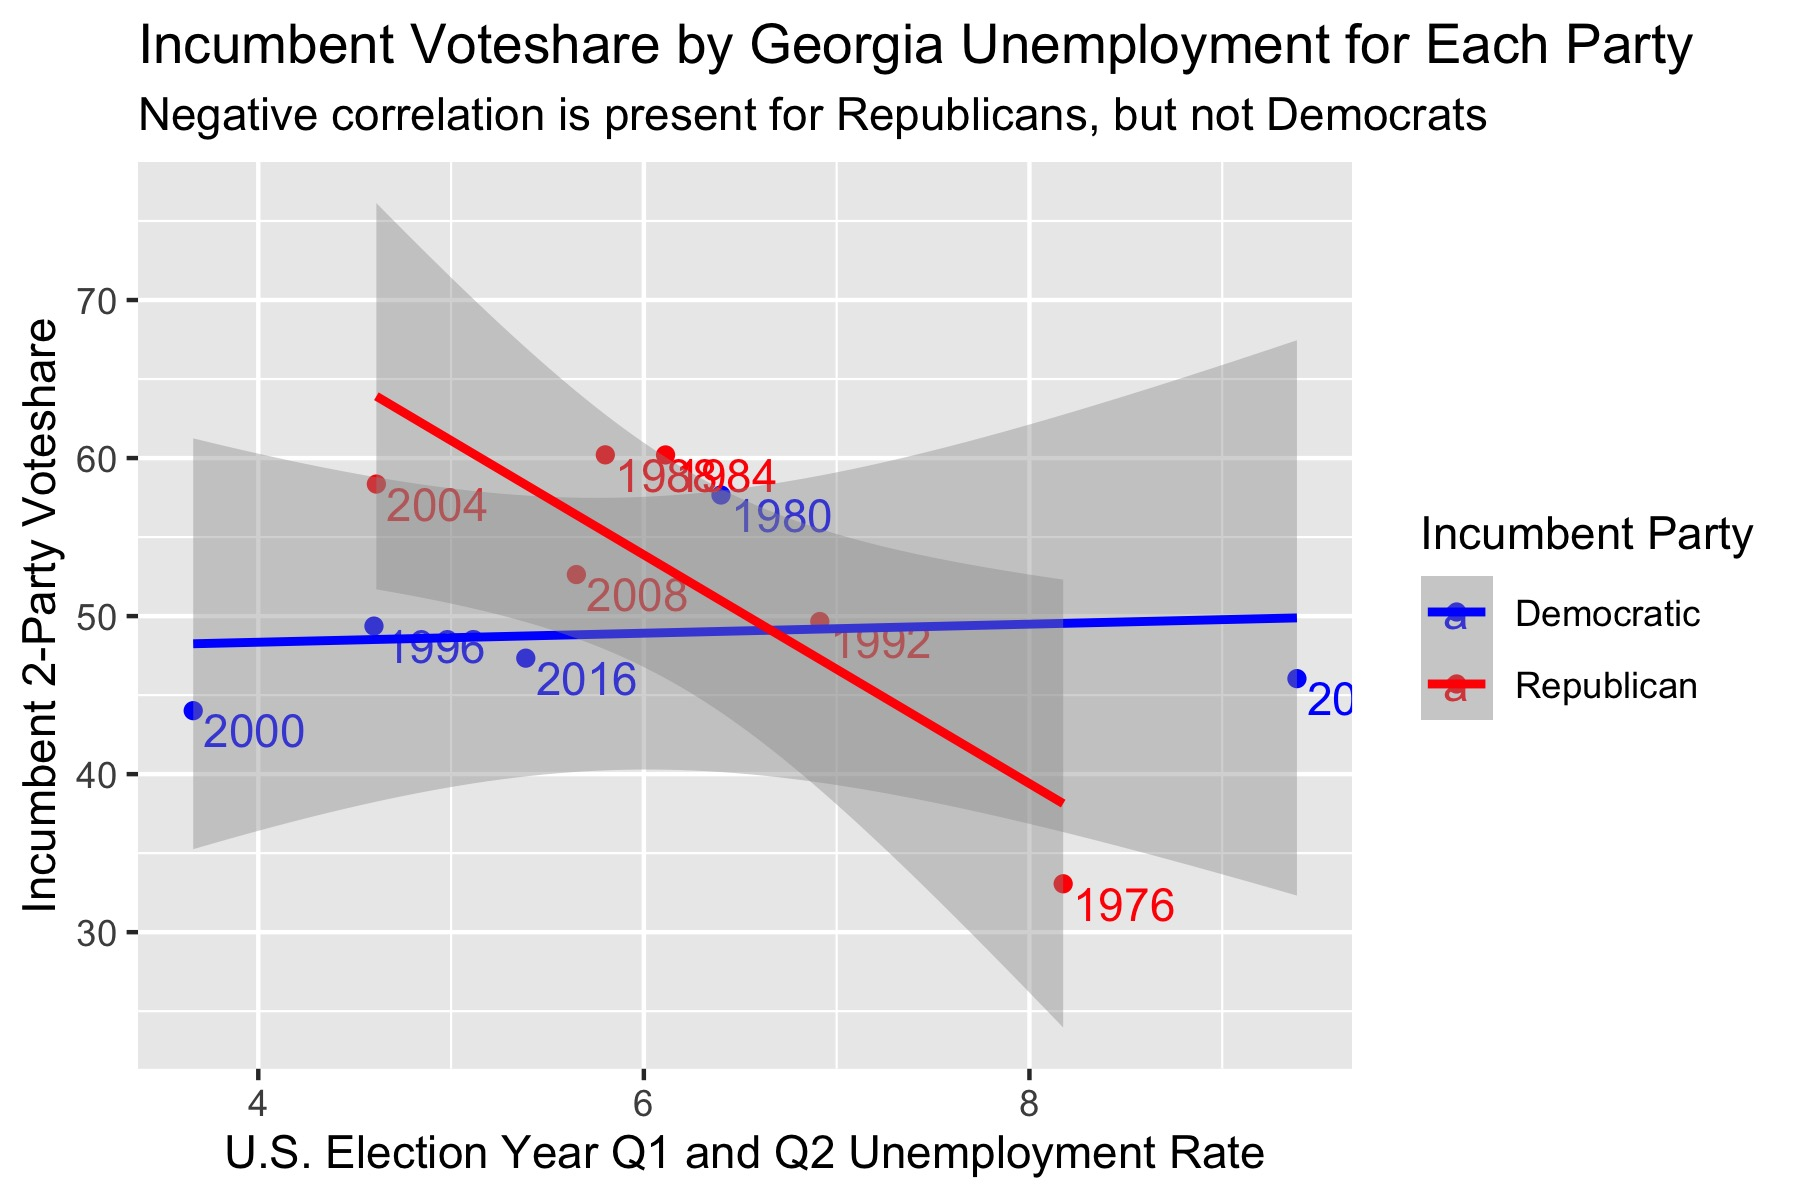
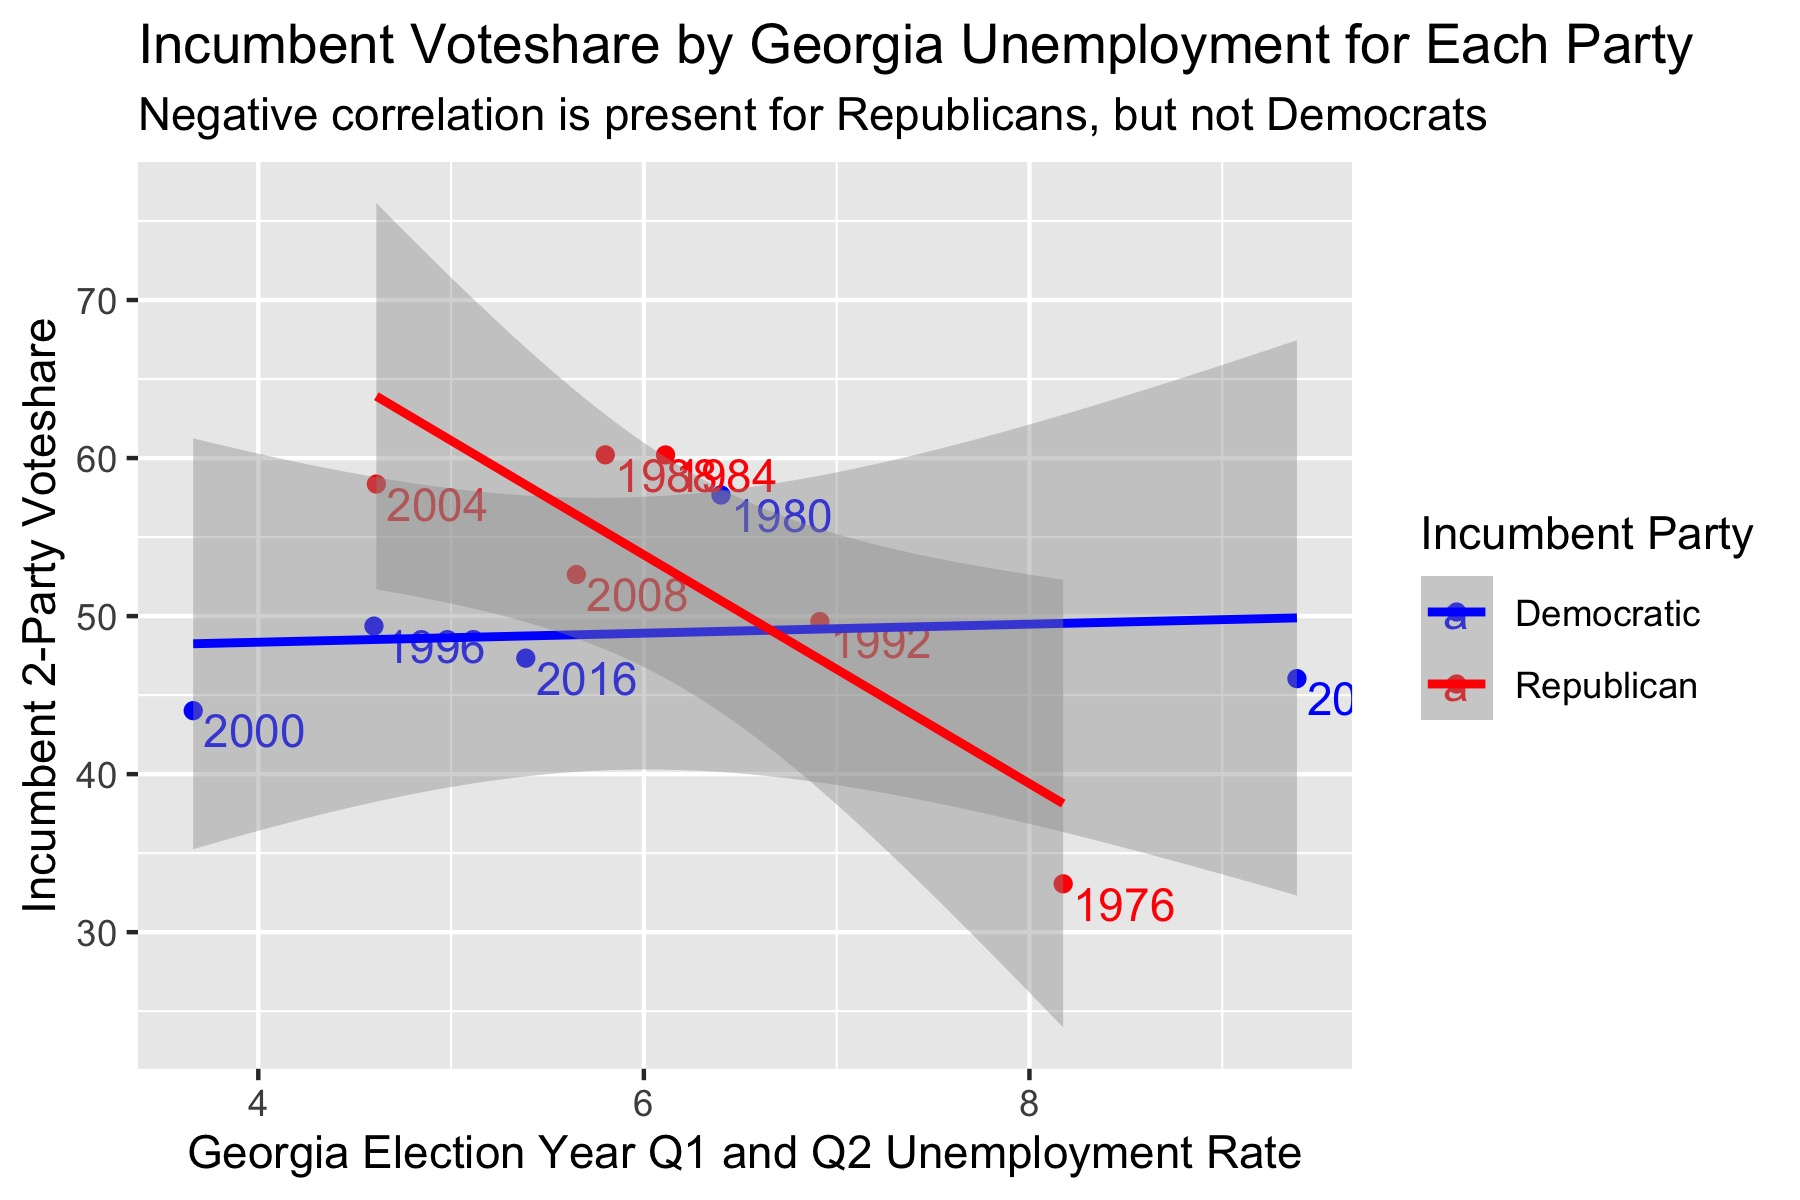
Finished blog draft

Changed region(s): [[0.0933, 0.925, 0.7156, 0.9867]]

diff --git a/posts/blog2.md b/posts/blog2.md
@@ -1,4 +1,4 @@
-## Using Local vs National Economy to Predict Voting Behvaior
+## Do Georgians Care More About the Local or National Economy?
 
 _By Miroslav Bergam_
 
@@ -26,8 +26,7 @@ When modeling the national unemployment rate against Georgia's voteshare for the
 
 ![](../figures/GAunemployed.jpg)
 
-This correlation appears to be slightly stronger and slightly more negative. There is a correlation of -0.066, meaning that with each one percent increase in national unemployment, the incumbent party voteshare decreases by -0.066%. For the same reason as before, this negative relationship makes sense. This model has a $R^2$ value of 0.11, which is notably stronger than the last relationship but still weak. 
-
+This correlation appears to be slightly stronger and slightly more negative. There is a correlation of -0.066, meaning that with each one percent increase in Georgia's unemployment rate, the incumbent party voteshare decreases by -0.066%. For the same reason as before, this negative relationship makes sense. This model has a $R^2$ value of 0.11, which is notably stronger than the last relationship but still quite weak. 
 
 ### The effect of unemployment on voting by party
 
@@ -35,19 +34,18 @@ Perhaps the effect of unemployment on voting is correlated more strongly with wh
 
 ![](../figures/usunemployed_party.jpg)
 
+This plot tells us a much different story. The negative correlation seen earlier does not exist for Democratic incumbents, while the correlation is even more negative for Republicans than in the previous model using national unemployment data, with a -0.5% decrease in Georgian's voteshare for each percentage point of unemployment. The correlation, too, is stronger: an $R^2$ value of 0.21. 
+
+Let's see how these relationships change when we replace national unemployment with unemployment in Georgia. 
+
 ![](../figures/GAunemployed_party.jpg)
 
-If we create two linear models -- one that depicts how 
+Once again, the correlation for Democrats is no longer negative. However, the correlation for Republicans is even stronger and more negative. For each one percent increase in Georgia's unemployment rate, the incumbent Republican candidate's voteshare in Georgia decreases by 0.1%. This relationship has a moderately strong $R^2$ of 0.72, notably stronger than any of the previous relationships. 
 
-This aligns with an interesting finding in [Burden and Wichowsky](https://www.jstor.org/stable/10.1017/s0022381614000437): that Republican incumbents are more su by higher unemployment rates. 
+Both of these graphs aligns with an interesting finding in [Burden and Wichowsky (2014)](https://www.jstor.org/stable/10.1017/s0022381614000437): that Republican incumbents are more susceptible to a loss of votes due to high unemployment rates. 
 
+### Conclusions and Model Limitations
 
+Based on these models, it seems that voters in Georgia care more about state-level unemployment than national unemployment when deciding whether or not to vote for the incumbent party, but only when the incumbent party is Republican. This is in keeping with the findings of [Burden and Wichowsky (2014)](https://www.jstor.org/stable/10.1017/s0022381614000437), which concludes that Republicans incumbents have more to lose from high unemployment rates during their term in office. 
 
-
-
-### Model Limitations
-
-Likely to vary by state-- cannot be generalized to other staates
-very weak R squared values
-needs more predictors to construct a good model
-
+There are several limitations to this model. The first is that these findings cannot be generalized to different states. These models were generated using data on Georgian voters, therefore, while it may be true that several other states experience a similar trend, these analysis must be run on another state's voting data to draw this conclusion. Additionally, most of the relationships in these models had weak $R^2$ values, with the exception of modeling Georgian unemployment against Republican incumbent vote share. Thus, these findings should be taken cautiously. Individuals rarely vote solely on unemployment rates: these models can be improved and the role of unemployment in voting can be better understood by constructing a more comprehensive model with more predictors.

diff --git a/README.md b/README.md
@@ -2,4 +2,4 @@ This election analysis blog will updated weekly with articles analyzing U.S. pre
 
 ### [Electoral Swing in the 2016 U.S. Presidential Election](posts/blog1.md)
 
-### [Local vs National Economy to Predict Voting Behvaior](posts/blog1.md)
+### [Do Georgians Care More About the Local or National Economy?](posts/blog2.md)
